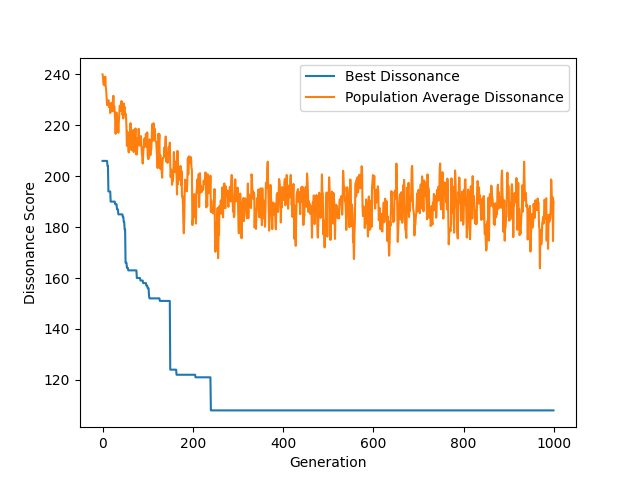
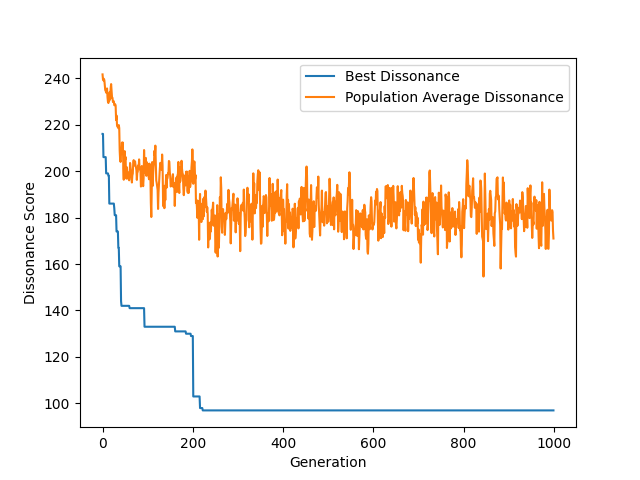
to merge

diff --git a/rulesTester.py b/rulesTester.py
@@ -73,4 +73,4 @@ def runTester(children=40, totalGenerations=1000, childrenLength=75, tuneLength=
 
 
 if __name__ == "__main__":
-    runTester()
+    runTester(startPoint=[0,1,1,1,0,0,0,0])
